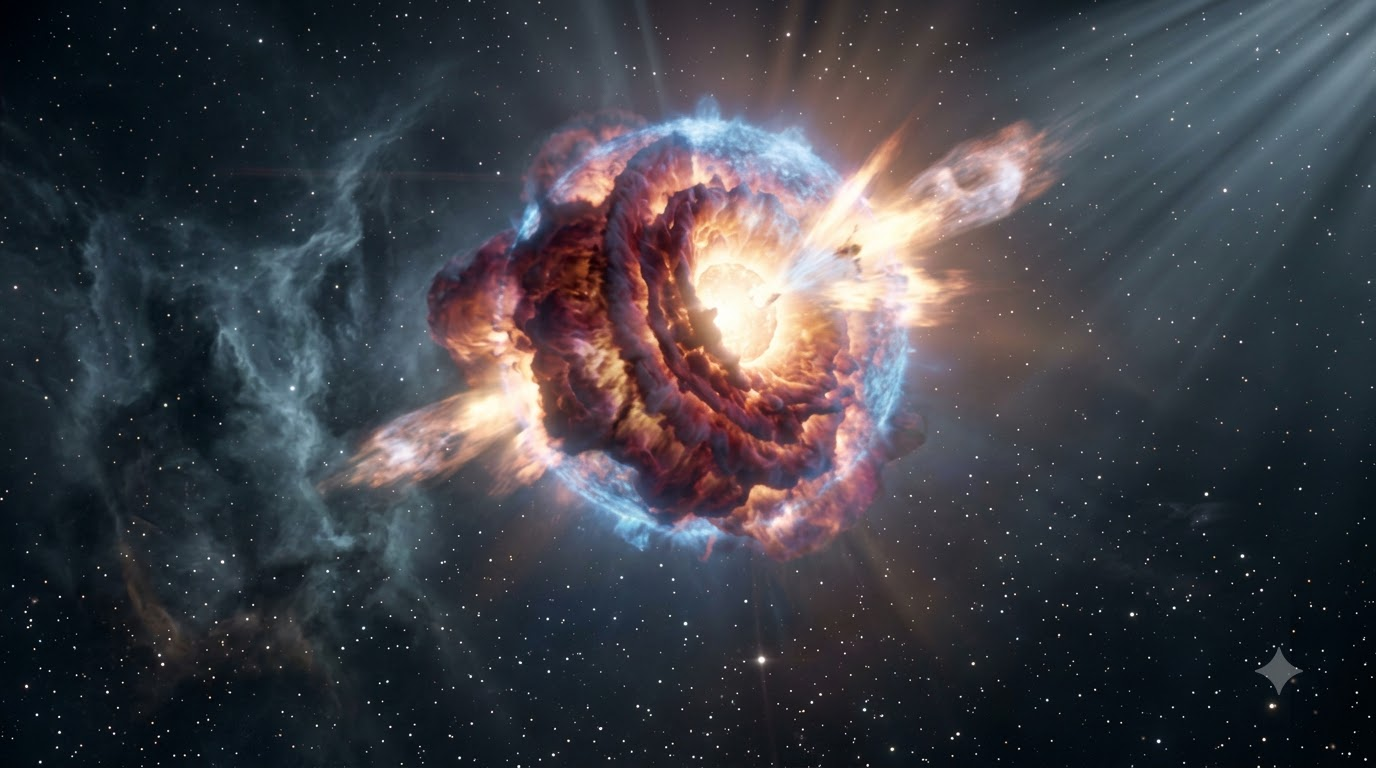
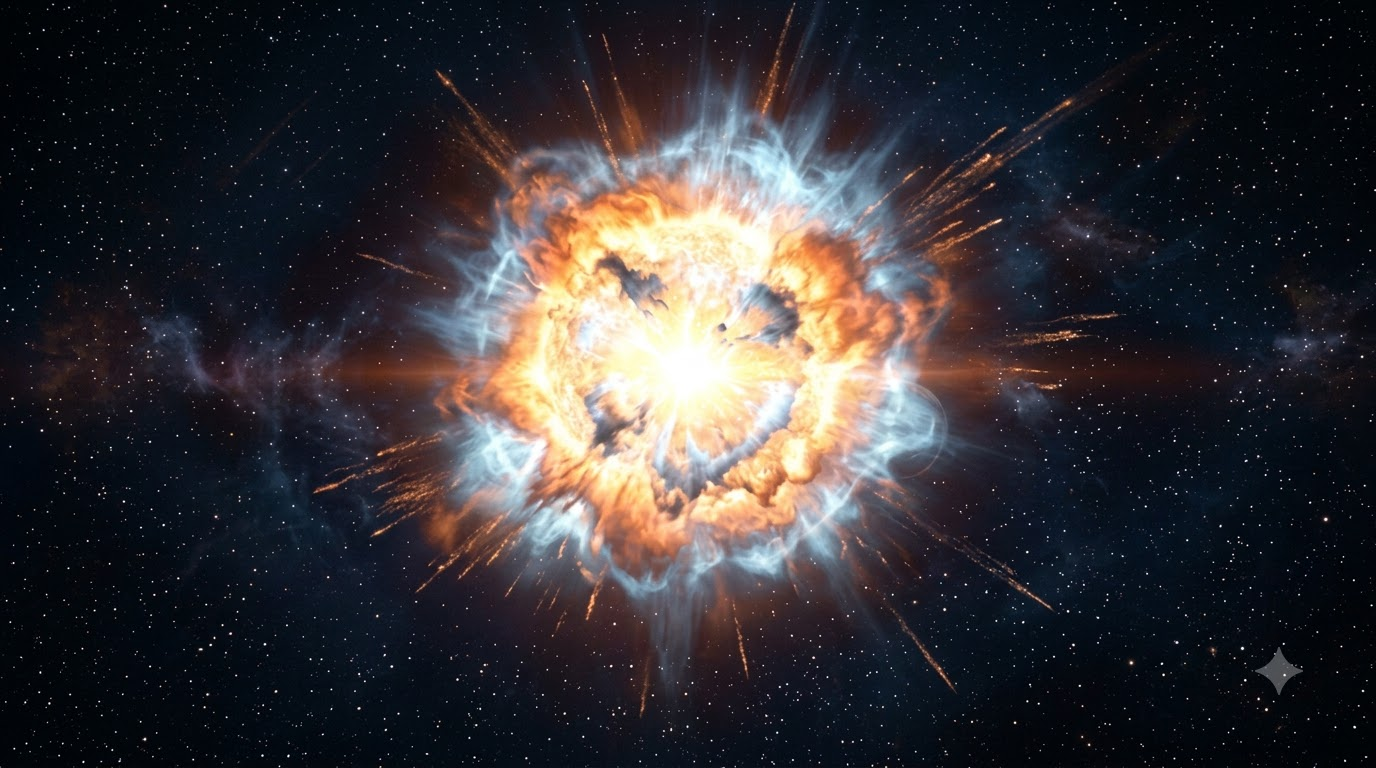
Add new article: death of a star

diff --git a/src/content/articles/the-strange-orbit-of-mercury.md b/src/content/articles/the-strange-orbit-of-mercury.md
@@ -1,0 +1,137 @@
+---
+title: 'The Strange Orbit of Mercury'
+description: 'Mercury does not orbit the Sun the way Newton said it should. For over half a century, its misbehaving path baffled the greatest minds in science — until Einstein showed that the answer was hidden in the fabric of spacetime itself.'
+category: 'Spacetime & Gravity'
+heroImage: '/images/orbit-of-mercury-0.jpeg'
+hashtags: ['Mercury', 'General Relativity', 'Gravity', 'Spacetime', 'Einstein']
+publishedAt: 2026-09-08
+author: 'Cosmo Curated Editorial'
+seoKeywords: ['mercury orbit explained', 'perihelion precession of mercury', 'general relativity mercury', 'why does mercury orbit weirdly', 'einstein and mercury orbit']
+faqs:
+  - question: 'Why is Mercury''s orbit considered strange?'
+    answer: 'Mercury''s orbit is an ellipse, but that ellipse slowly rotates around the Sun over time — a phenomenon called perihelion precession. Most of this rotation is caused by gravitational tugs from other planets, which Newton''s laws predict accurately. But about 43 arcseconds per century remained unexplained by Newtonian mechanics alone, a tiny but stubbornly persistent discrepancy that puzzled astronomers for decades. Einstein''s General Theory of Relativity explained it precisely as a consequence of the Sun''s warping of spacetime.'
+  - question: 'What is perihelion precession?'
+    answer: 'Perihelion is the point in a planet''s elliptical orbit where it is closest to the Sun. "Precession" means that this closest point slowly drifts — it rotates around the Sun rather than returning to exactly the same spot each orbit. For Mercury, this drift amounts to a complete rotation of the orbit every roughly 225,000 years. Most of this precession is explained by the gravitational influence of other planets, but 43 arcseconds per century were left over — and only General Relativity accounts for them.'
+  - question: 'Did astronomers invent a planet to explain Mercury''s orbit?'
+    answer: 'Yes. In 1859 the French mathematician Urbain Le Verrier proposed that an undiscovered planet inside Mercury''s orbit — which he named Vulcan — was causing the gravitational tug responsible for the anomalous precession. Astronomers searched for Vulcan for decades; some even reported spurious detections. The planet was never found. Einstein''s General Relativity made Vulcan unnecessary by providing a physical explanation that required no new planet at all.'
+  - question: 'How did Einstein explain Mercury''s orbit?'
+    answer: 'In November 1915, while developing the field equations of General Relativity, Einstein calculated the precession of Mercury''s orbit predicted by his theory. The result was 43 arcseconds per century — exactly the anomalous amount left unexplained by Newton. Einstein reportedly was so excited he had heart palpitations. The calculation was the first successful prediction of a known anomaly by General Relativity, and it gave Einstein enormous confidence in his theory before the 1919 eclipse confirmed light bending.'
+  - question: 'Is Mercury''s orbit an important test of General Relativity?'
+    answer: 'Yes. The perihelion precession of Mercury was one of the three classical tests of General Relativity proposed by Einstein himself, alongside the bending of starlight by the Sun (confirmed in 1919) and gravitational redshift. Mercury''s precession is particularly significant because it was a known anomaly — a problem already sitting on the books — that Einstein''s theory solved with exact numerical precision, without adjusting any free parameters.'
+---
+
+In November 1915, while finalising his General Theory of Relativity, Einstein applied his field equations to a concrete problem: the orbit of Mercury. The result was **43 arcseconds per century** — the precise amount by which Mercury's orbit had been observed to deviate from Newtonian predictions since Le Verrier first measured it in 1859.
+
+Astronomers had tried for decades to account for that residual precession. Various explanations had been proposed — an undiscovered inner planet, a slight oblateness of the Sun, interplanetary dust — but none held up. Newton's laws simply could not produce the right number.
+
+General Relativity did, without any adjustable parameters. This article traces how that problem arose, and how Einstein's geometry of spacetime resolved it.
+
+---
+
+## Why Planetary Orbits Are Ellipses
+
+To understand Mercury's orbit, we first need to understand what an orbit is supposed to look like.
+
+Johannes Kepler showed in the early seventeenth century that planets do not move in perfect circles — they move in **ellipses**: slightly squashed circles with the Sun sitting at one focus (not the centre). A planet moves faster when it is closer to the Sun and slower when it is farther away, sweeping out equal areas in equal times.
+
+![Planetary ellipse around the Sun](/images/orbit-of-mercury-1.jpeg)
+
+> 💡 **Ellipse** is a closed, oval-shaped curve defined by two focal points. The sum of the distances from any point on the ellipse to both foci is always the same. A circle is a special case of an ellipse where both foci are the same point. Planetary orbits are ellipses with the Sun at one focus.
+
+The point in the orbit where a planet is **closest to the Sun** is called the **perihelion** (from the Greek: *peri* = near, *helios* = Sun). **The point where it is farthest** is the **aphelion**.
+
+In a perfectly Newtonian universe with only two bodies — one planet and one Sun — the orbit is a perfect, fixed ellipse. The perihelion point returns to exactly the same place in space every year, year after year, forever.
+
+---
+
+## The Problem: Mercury's Orbit
+
+Mercury is the innermost planet of our Solar System, and it is also the fastest: it completes one orbit every 88 Earth days. Because it is so close to the Sun, it moves at extraordinary speed — up to 59 kilometres per second at perihelion — and it is more strongly affected by the Sun's gravity than any other planet.
+
+Observations of Mercury going back centuries had established something puzzling: its perihelion does not stay in place. Each time Mercury swings around the Sun, its closest point is shifted slightly in the direction of its orbit. Over time, this drift means that the ellipse itself slowly rotates around the Sun like a spirograph pattern.
+
+![Mercury's orbital ellipse around the Sun](/images/orbit-of-mercury-2.jpeg)
+
+This rotation of an orbit is called **precession** — specifically, **perihelion precession**.
+
+Now, precession is not in itself surprising. The Solar System is not a two-body problem. Jupiter, Saturn, Venus, and all the other planets tug on Mercury as it orbits, pulling it this way and that. These gravitational tugs shift Mercury's perihelion over time in a predictable way.
+
+Newton's laws of gravity allow you to calculate exactly how much precession each planet contributes. When astronomers in the nineteenth century did this calculation carefully, they found that all the planets together produce a perihelion precession in Mercury of about **5,557 arcseconds per century** — a tiny but measurable drift.
+
+> 💡 **Arcsecond** is a unit of angular measurement. One full circle has 360 degrees. Each degree is divided into 60 arcminutes, and each arcminute into 60 arcseconds. One arcsecond is therefore 1/3,600 of a degree — so small that 43 arcseconds per century is barely perceptible even with sensitive instruments. Yet it was enough to upend physics.
+
+When astronomers compared this prediction to actual observations, they found a discrepancy. The observed precession of Mercury's orbit was **43 arcseconds more** per century than Newton's laws could account for.
+
+Forty-three arcseconds is a fantastically small number — less than a hundredth of a degree every century. To put it in perspective: Mercury would need to complete about **three million orbits** before this drift added up to a full rotation of the ellipse. And yet this tiny residue sat on the books as an unexplained anomaly, a small thorn in the side of Newtonian mechanics.
+
+---
+
+## The Search for Vulcan: A Missing Planet
+
+The astronomer who first precisely quantified the anomaly was the French mathematician **Urbain Le Verrier** in 1859. Le Verrier was famous for a previous triumph: in 1846 he had predicted the existence and position of Neptune purely from the anomalous behaviour of Uranus's orbit. Astronomers pointed their telescopes to the spot he indicated and found Neptune immediately.
+
+Flushed with that success, Le Verrier applied the same logic to Mercury. If Mercury's orbit was misbehaving, perhaps another planet — closer to the Sun than Mercury, and as yet undetected — was gravitationally tugging it along.
+
+Le Verrier calculated where this **hypothetical planet** should be and gave it a name: **Vulcan**, after the Roman god of fire, a fitting choice for something lurking so close to the Sun. For the next several decades, astronomers searched. Some reported seeing it as a dark spot transiting the solar disc.
+
+None of the reports held up to scrutiny. Vulcan was never found — because it does not exist. The failure to find Vulcan left the anomaly fully open. Newton's gravity was incomplete — or the observations were wrong. Astronomers and physicists were certain the observations were right.
+
+> ✅ **Established fact:** The search for Vulcan continued into the early twentieth century. When Einstein's General Relativity precisely explained the 43-arcsecond anomaly in 1915, the motivation for Vulcan's existence evaporated. The planet was definitively abandoned as unnecessary.
+
+---
+
+## Why Mercury is Most Affected
+
+Before turning to Einstein, it is worth asking: if Newton's laws are slightly wrong, why do we see the problem most clearly in Mercury?
+
+The answer is **geometry and speed**.
+
+The relativistic correction to Newtonian gravity becomes larger the stronger the gravitational field and the faster an object moves. Mercury is the closest planet to the Sun, so it experiences the strongest solar gravity, and it is moving faster than any other planet. Both factors amplify the effect.
+
+For Earth, the relativistic precession is about **3.8 arcseconds per century** — small enough that it was not a serious observational problem in the nineteenth century, though it has since been precisely measured and confirmed. For Mercury, the effect is about **43 arcseconds per century** — eleven times larger, and conspicuous enough to demand explanation.
+
+> 💡 **Think of it this way:** relativistic effects are like a gentle but persistent current in a river. For a slow-moving boat far from the current's strongest channel, the drift is negligible. But Mercury is a fast boat right in the middle of the flow — the effect is impossible to ignore.
+
+---
+
+## Gravity as Curved Spacetime
+
+The resolution came not from finding a new planet, but from rethinking what gravity is.
+
+**Newton's gravity is a force**: every mass attracts every other mass across empty space, with a strength that falls off as the square of the distance. It is a spectacularly successful description — but Newton himself never explained the mechanism. How does the Sun reach across 77 million kilometres of empty space and pull Mercury?
+
+Einstein's answer, arrived at through the Equivalence Principle and a decade of mathematical effort, is fundamentally different. Gravity is not a force acting across space. It is the **curvature of spacetime** — the four-dimensional fabric of the universe — caused by the presence of mass and energy. Objects don't get pulled by gravity; they follow the straightest possible paths through a curved geometry.
+
+> 💡 **Spacetime** is the combination of three dimensions of space and one dimension of time into a single four-dimensional framework. Einstein showed that space and time are not separate and absolute, but interwoven and relative to the observer. For more on this foundation, see our article [What is Spacetime?](/articles/what-is-spacetime).
+
+Near a massive object like the Sun, spacetime is significantly curved. Mercury, as it orbits, is following the curved geometry of spacetime around the Sun — not responding to a force. Newton's description of gravity is an excellent approximation to this curved-geometry picture, valid when gravitational fields are weak and velocities are small compared to light.
+
+For most of the Solar System, the approximation is so good it is indistinguishable from the truth. But right in the deep gravitational well of the Sun, where Mercury moves fastest, the approximation breaks down just slightly — and that slight breakdown is precisely what the 43 arcseconds represent.
+
+---
+
+## The Bigger Picture
+
+By November 1915, **General Relativity** was still an unconfirmed theory. Einstein believed it deeply — his intuition about its mathematical elegance and internal consistency was strong — but science requires evidence, not belief.
+
+The 43-arcsecond anomaly was a well-known, well-measured fact that had sat unsolved for 56 years. Einstein had not built his theory to explain Mercury. He had built it from first principles — from the Equivalence Principle, from the geometry of curved spacetime — and it explained Mercury for free.
+
+This is what physicists call **predictive power**: a theory passes a much stronger test when it correctly accounts for something it was not designed to explain.
+
+When the 1919 eclipse expedition confirmed that starlight bent around the Sun by exactly the amount General Relativity predicted, Einstein became world-famous overnight. But inside the physics community, the Mercury result had already done much of the convincing.
+
+---
+
+## A Quick Summary
+
+| Concept | What it means |
+|---|---|
+| **Perihelion** | The closest point in a planet's elliptical orbit to the Sun |
+| **Precession** | The slow rotation of a planet's orbital ellipse over time |
+| **Anomalous precession** | The 43 arcseconds per century of Mercury's precession unexplained by Newtonian gravity |
+| **Vulcan** | A hypothetical planet proposed in 1859 to explain the anomaly; never found |
+| **General Relativity** | Einstein's theory of gravity as the curvature of spacetime; explains the anomaly exactly |
+
+---
+
+*Further reading: For the history and physics of Mercury's precession, see* Subtle is the Lord *by Abraham Pais — the definitive scientific biography of Einstein — or* The Hunt for Vulcan *by Thomas Levenson, which tells the colourful story of the search for the phantom planet.*

diff --git a/src/content/articles/the-arrow-of-time.md b/src/content/articles/the-arrow-of-time.md
@@ -10,13 +10,13 @@ seoKeywords: ['arrow of time explained', 'why does time flow forward', 'entropy 
 faqs:
   - question: 'What is the Arrow of Time?'
     answer: 'The Arrow of Time refers to the fact that time has a definite direction — the past is fixed, the future is open, and physical processes unfold in one direction only. An egg breaks but never spontaneously reassembles; heat flows from hot objects to cold ones, never the reverse. The challenge for physics is that the fundamental laws of nature are, with one near-negligible exception, perfectly symmetric in time — they work just as well run forwards or backwards. The arrow must therefore come from somewhere beyond the basic laws themselves.'
-  - question: 'What is entropy?'
+  - question: 'What is entropy and the second law of thermodynamics?'
     answer: 'Entropy is a measure of the number of ways the microscopic components of a system (atoms, molecules) can be arranged while still producing the same overall appearance. A tidy room has low entropy because there are very few arrangements that count as "tidy." A messy room has high entropy because there are vastly more arrangements that count as "messy." The Second Law of Thermodynamics states that the entropy of a closed system tends to increase over time — disorder naturally grows. This is the primary physical source of the Arrow of Time.'
   - question: 'Why did entropy start low?'
     answer: 'This is one of the deepest open questions in physics. For the Second Law to explain the Arrow of Time, the universe must have begun in a very low-entropy state — the Big Bang. Why the Big Bang was so ordered is not fully explained by current physics. Various proposals exist, including ideas about the nature of the initial conditions of the universe, but none is universally accepted. Physicist Roger Penrose has called this the "Past Hypothesis" — the assumption that the early universe had an extraordinarily low entropy — and regards explaining it as a central unsolved problem.'
   - question: 'Are the laws of physics symmetric in time?'
     answer: 'Almost entirely yes. Classical mechanics, electromagnetism, quantum mechanics, and General Relativity are all symmetric under time-reversal: if you filmed a process and played the film backwards, the reversed process would still obey the same equations. The only known exception is a subtle asymmetry in certain weak-force particle decays (CP violation), but this effect is far too small to explain the macroscopic Arrow of Time we observe in everyday life. The arrow comes primarily from thermodynamics and the special initial conditions of the universe.'
-  - question: 'What is the relationship between the Arrow of Time and the Big Bang?'
+  - question: 'What is the relationship between entropy and the Big Bang?'
     answer: 'The most widely accepted physical explanation for the Arrow of Time is that the early universe — the Big Bang — was in an extraordinarily low-entropy state. Because entropy can only increase, everything since the Big Bang has been a steady march toward greater disorder. The direction we call "the past" is the direction of lower entropy; the direction we call "the future" is the direction of higher entropy. The Arrow of Time, on this view, is not a fundamental feature of the laws of physics — it is a consequence of the special initial conditions of the universe.'
 ---
 

diff --git a/src/content/articles/the-block-universe.md b/src/content/articles/the-block-universe.md
@@ -16,8 +16,8 @@ faqs:
     answer: 'The Block Universe is a philosophical interpretation of what Special Relativity implies about the nature of time. Special Relativity itself is extremely well-established science. However, the Block Universe is a philosophical conclusion drawn from it, not a directly testable prediction. Most physicists accept the physical results of Special Relativity but are divided on the philosophical interpretation. The Block Universe is a serious and widely discussed position in the philosophy of physics, not fringe speculation — but it is not the same kind of established fact as the equations of relativity themselves.'
   - question: 'What is the relativity of simultaneity?'
     answer: 'The relativity of simultaneity is a confirmed prediction of Special Relativity. Two observers moving at different velocities will disagree about whether two spatially separated events happened at the same time. One observer''s "now" is a different cross-section of spacetime than another observer''s "now." There is no single, universal "present moment" that applies to everyone. This is not a trick of perception — it follows directly from the mathematics of Special Relativity and has been confirmed experimentally.'
-  - question: 'What is the "Rietdijk-Putnam argument"?'
-    answer: 'The Rietdijk-Putnam argument (also called the Andromeda Paradox in a version popularised by Roger Penrose) is a philosophical argument that uses the relativity of simultaneity to argue for the Block Universe. It shows that for any given moment on Earth, two observers moving at different velocities will disagree about what is happening "right now" in a distant galaxy. Since both observers'' "nows" are equally valid in Special Relativity, and since they extend to include different future events far away, this suggests that future events are, in some sense, already determined and real. It is a compelling argument, though its conclusions are disputed.'
+  - question: 'What is the Andromeda Paradox?'
+    answer: 'The Andromeda Paradox (also known as the Rietdijk-Putnam argument, popularised by Roger Penrose) is a philosophical argument that uses the relativity of simultaneity to argue for the Block Universe. It shows that for any given moment on Earth, two observers moving at different velocities will disagree about what is happening "right now" in a distant galaxy. Since both observers'' "nows" are equally valid in Special Relativity, and since they extend to include different future events far away, this suggests that future events are, in some sense, already determined and real. It is a compelling argument, though its conclusions are disputed.'
 ---
 
 Imagine that the universe is not a film playing out frame by frame — a flickering present advancing through time — but more like a finished book: every page already written, every scene already there, waiting to be read. Past chapters don't cease to exist when you turn the page. Future chapters don't fail to exist because you haven't reached them yet.
